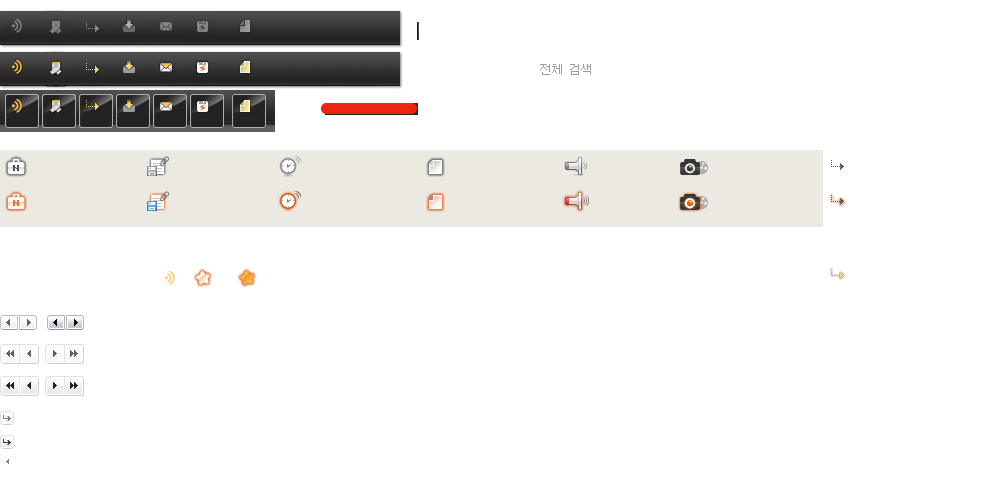
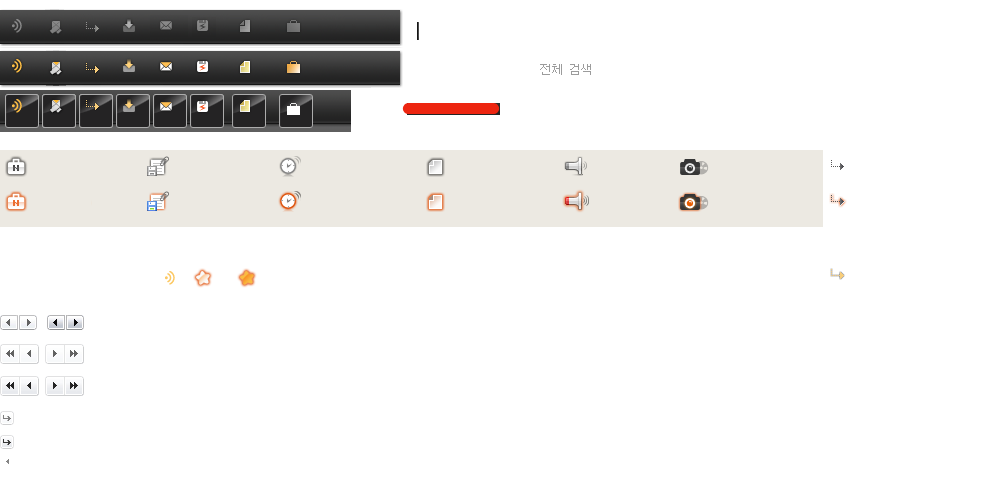
css

Changed region(s): [[0.0, 0.03, 0.496, 0.27], [0.031, 0.0, 0.062, 0.03]]

diff --git a/WebContent/css/black/layout.css b/WebContent/css/black/layout.css
@@ -53,13 +53,17 @@ body, #nav { background: url("../../images/bg_body.png") repeat-y #ece9e2}
 .icon_saved a:hover {background: url("../../images/header_nico.png") no-repeat scroll -190px -55px transparent}
 .icon_saved .current, .icon_saved a.current:hover {background: url("../../images/header_nico.png") no-repeat scroll -190px -94px transparent}
 
+.icon_info_works a {background: url("../../images/header_nico.png") no-repeat scroll -279px -14px transparent}
+.icon_info_works a:hover {background: url("../../images/header_nico.png") no-repeat scroll -279px -55px transparent}
+.icon_info_works .current, .icon_info_works a.current:hover {background: url("../../images/header_nico.png") no-repeat scroll -279px -94px transparent}
+
 .icon_number { 
-	background: url("../../images/header_nico.png") no-repeat scroll -321px -102px transparent; 
+	background: url("../../images/header_nico.png") no-repeat scroll -403px -102px transparent; 
 	display:inline-block; font-family: Tahoma, dotum; font-size:9px; color:#FFF; height:12px; letter-spacing:0; line-height:13px; padding-right:5px; position:absolute;
 	left:14px; top:13px; text-indent: 4px; z-index:1001
 }
 .icon_number span { 
-	background: url("../../images/header_nico.png") no-repeat scroll -412px -102px transparent !important;
+	background: url("../../images/header_nico.png") no-repeat scroll -494px -102px transparent !important;
 	display:inline-block; font-size:0; height:12px; line-height:0; overflow:hidden; position:absolute; right:0;  top:0; width:5px;
 }
 #notice_message_box .reply {background: url("../../images/header_nico.png") no-repeat scroll -828px -268px transparent; clear:both; overflow: hidden; padding: 0 0 0 23px; margin: 6px 0 0 4px}

diff --git a/WebContent/css/black/layout_2.css b/WebContent/css/black/layout_2.css
@@ -274,6 +274,14 @@ a.icon_show:hover {background: url("../../images/body_icon.png") no-repeat -42px
 -webkit-border-radius:10px; -moz-border-radius:10px; border-radius:10px; font-size:11px}
 .user_select + input[type="text"] {width:160 !importantpx}
 
+/* 댓글 */
+tr.instance_list {}
+tr.instance_list:hover {background-color:#fff7eb; cursor:pointer}
+.det_title {padding:5px 0}
+li.sub_instance_list > .det_title {}
+li.sub_instance_list > .det_title:hover, li.instance_list > .det_title:hover {background-color:#fff7eb; cursor:pointer}
+
+
 /* Text style */
 .t_red, .t_sunday {color:#e54b4b}
 .t_saturday {color:#4b79c8}
